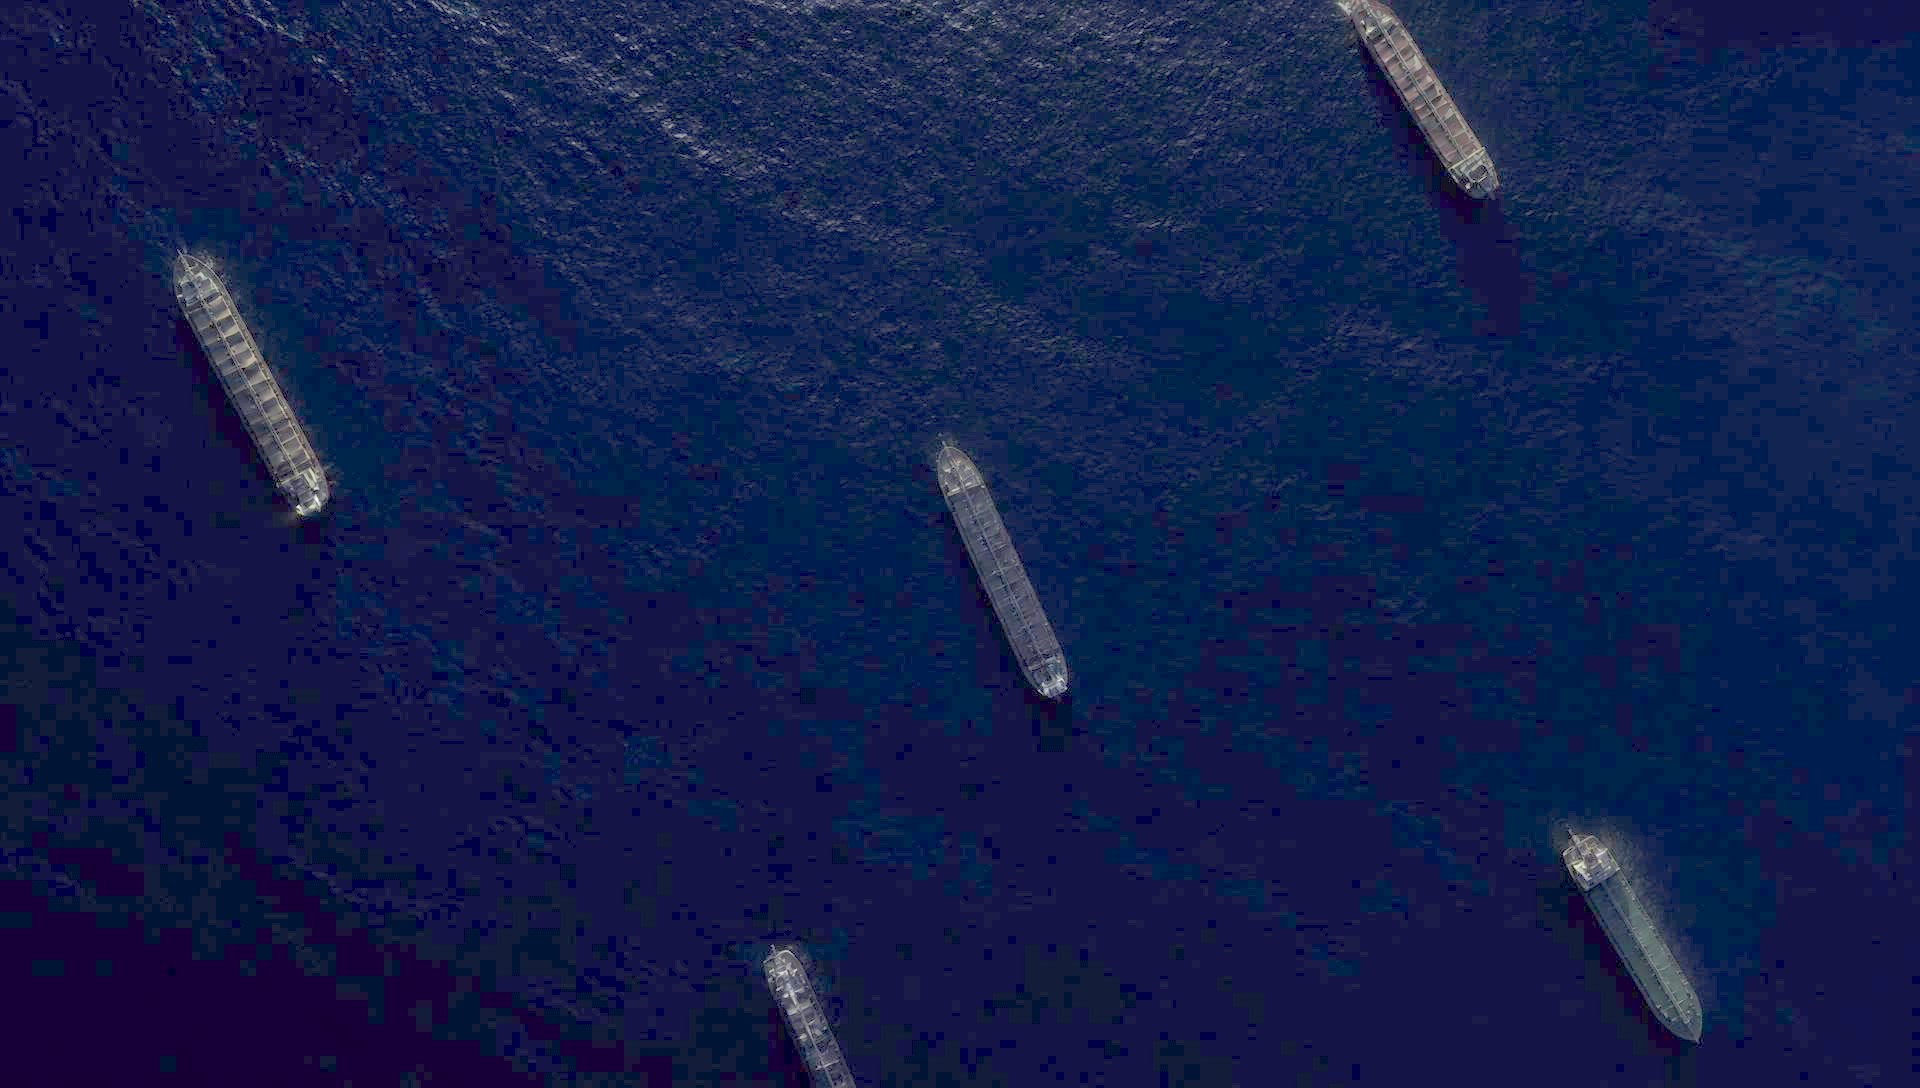
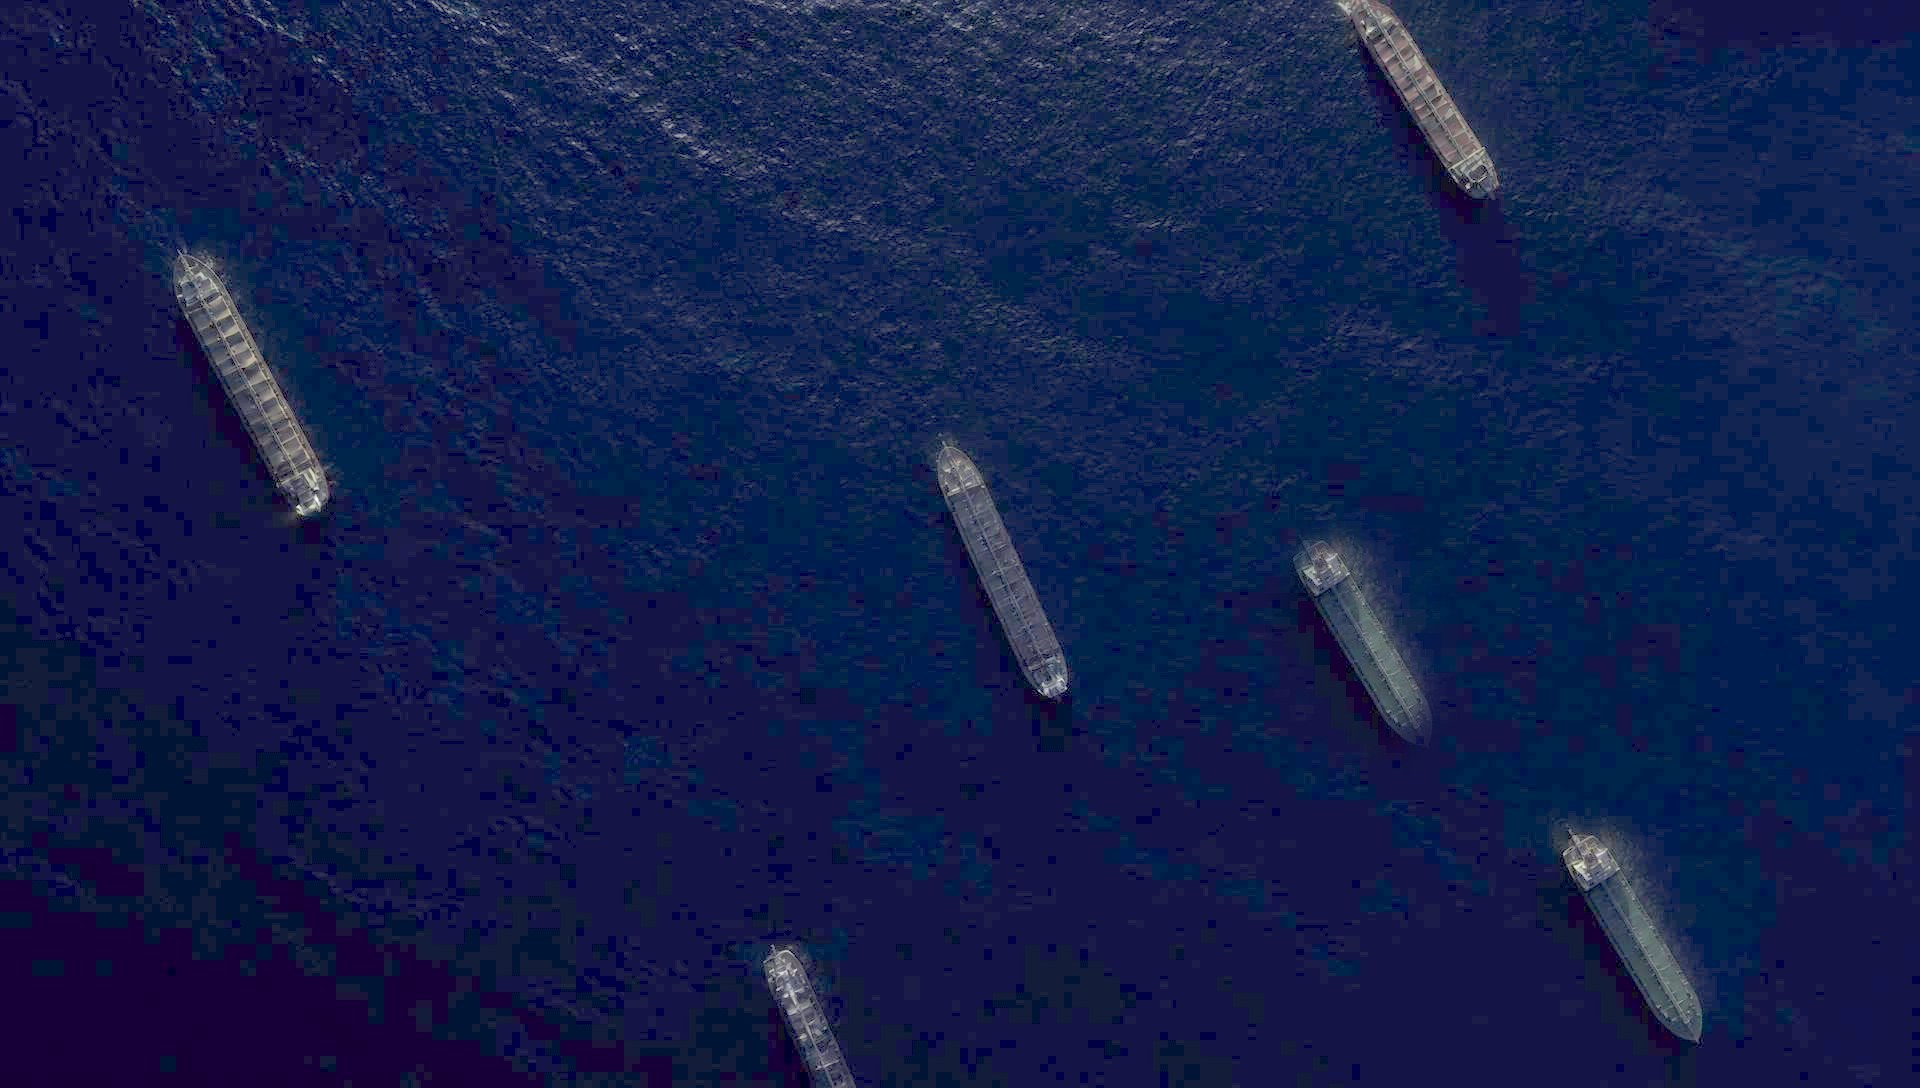
Changes

Changed region(s): [[0.6562, 0.4688, 0.75, 0.6875]]

diff --git a/src/routes/intelligence.tsx b/src/routes/intelligence.tsx
@@ -134,10 +134,10 @@ function IntelligencePage() {
       <Nav />
       <main>
         <section className="relative flex min-h-screen items-center px-6 py-32">
-          <SectionBackground src={vessels} alt="Vessels at sea seen from orbit" overlay="bg-gradient-to-b from-navy/70 via-navy/10 to-navy/85" imgClassName="brightness-105 saturate-105 object-[68%_50%]" position="68%">
+          <SectionBackground src={vessels} alt="Vessels at sea seen from orbit" overlay="bg-gradient-to-b from-navy/70 via-navy/10 to-navy/85" imgClassName="brightness-105 saturate-105">
             {/* Pinned to real ships in the photo: centre tanker and lower right tanker */}
-            <Reticle className="left-[52%] top-[52.5%] h-[28%] w-[9%] -translate-x-1/2 -translate-y-1/2" tag={h.tags.matched} tone="cyan" />
-            <Reticle className="left-[85%] top-[86%] h-[22%] w-[9%] -translate-x-1/2 -translate-y-1/2" tag={h.tags.dark} tone="alert" />
+            <Reticle className="left-[52%] top-[52.5%] h-[28%] w-[10%] -translate-x-1/2 -translate-y-1/2" tag={h.tags.matched} tone="cyan" />
+            <Reticle className="hidden sm:block left-[71%] top-[59%] h-[22%] w-[9%] -translate-x-1/2 -translate-y-1/2" tag={h.tags.dark} tone="alert" />
           </SectionBackground>
           <div className="relative mx-auto w-full max-w-7xl">
             <Reveal>
